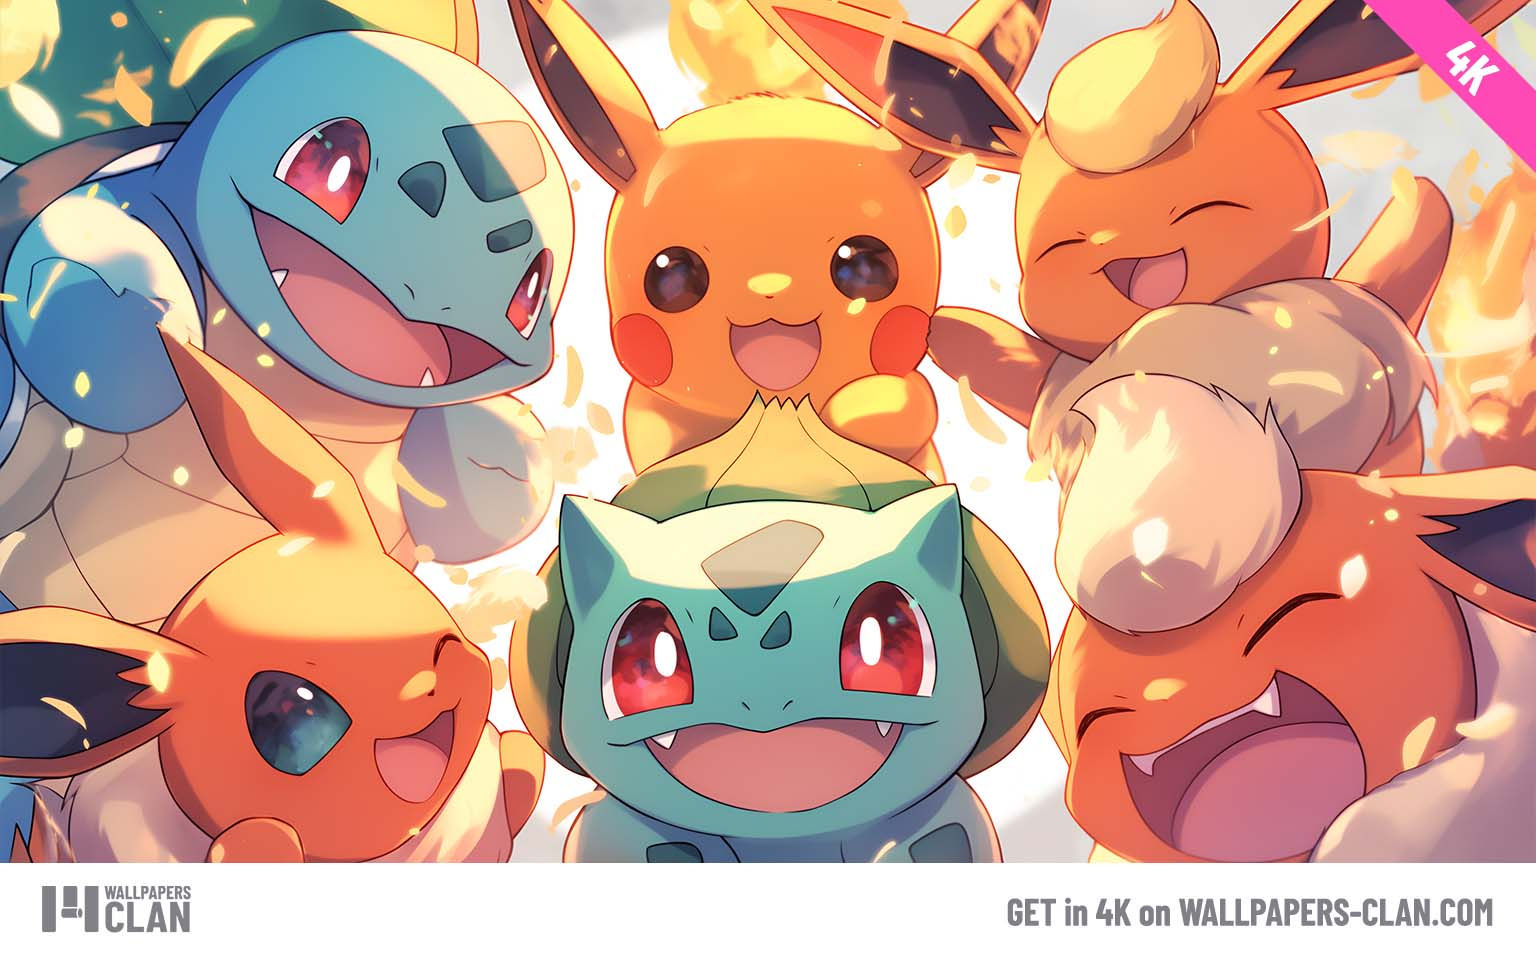
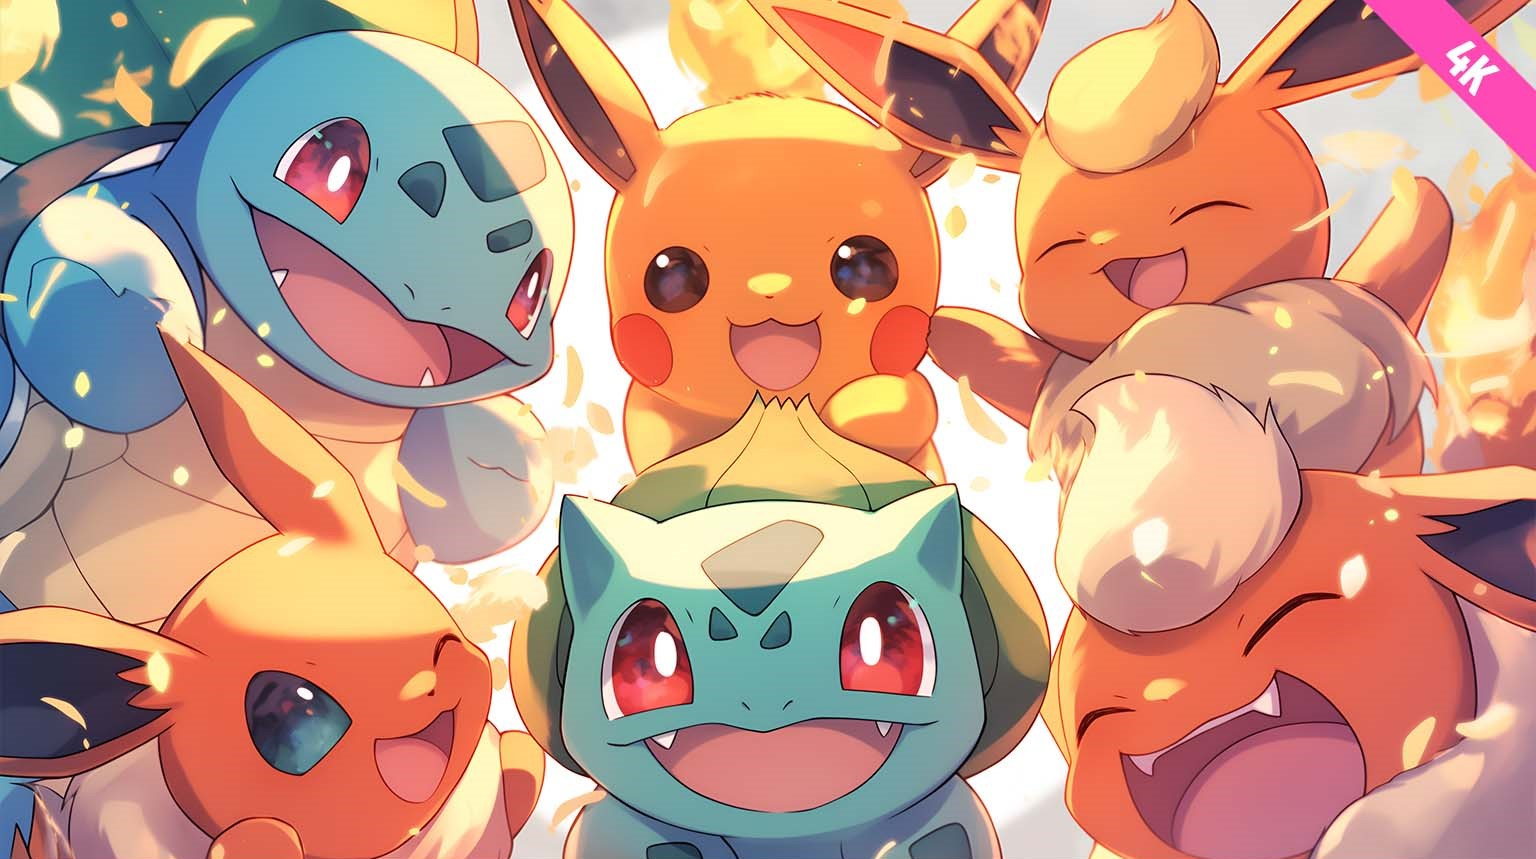
chore: Change login/signup bgs

diff --git a/frontend/pageComponents/login.tsx b/frontend/pageComponents/login.tsx
@@ -204,10 +204,16 @@ export default function Login({
         initial={{ opacity: 0, y: "-10px" }}
         animate={{ opacity: 1, y: 0, transition: { delay: 0.2 } }}
       >
-        <img
-          src="https://images2.alphacoders.com/136/thumb-1920-1368422.jpeg"
+        <Image
+          src="/pokemon-banner-2.jpg"
           alt="SuperBiddo"
-          className={styles.TEMP_img}
+          priority
+          fill
+          sizes="100vw"
+          style={{
+            objectFit: "cover",
+            objectPosition: "center",
+          }}
         />
       </motion.div>
     </motion.main>

diff --git a/frontend/pageComponents/signup.tsx b/frontend/pageComponents/signup.tsx
@@ -243,10 +243,16 @@ export default function Signup({
         initial={{ opacity: 0, y: "-10px" }}
         animate={{ opacity: 1, y: 0, transition: { delay: 0.2 } }}
       >
-        <img
-          src="https://images2.alphacoders.com/136/thumb-1920-1368422.jpeg"
+        <Image
+          src="/mtg-banner-3.jpg"
           alt="SuperBiddo"
-          className={styles.TEMP_img}
+          priority
+          fill
+          sizes="100vw"
+          style={{
+            objectFit: "cover",
+            objectPosition: "bottom",
+          }}
         />
       </motion.div>
     </motion.main>

diff --git a/frontend/styles/login.module.css b/frontend/styles/login.module.css
@@ -38,18 +38,11 @@
 }
 
 .image_container {
+  position: relative;
   flex: 1;
   min-width: 50%;
-  height: 100%;
+  height: 100vh;
   overflow: hidden;
-}
-
-/* TODO: replace with downloaded image, delete this style */
-.TEMP_img {
-  width: 100%;
-  height: 100%;
-  object-fit: cover;
-  object-position: center;
 }
 
 .title {
